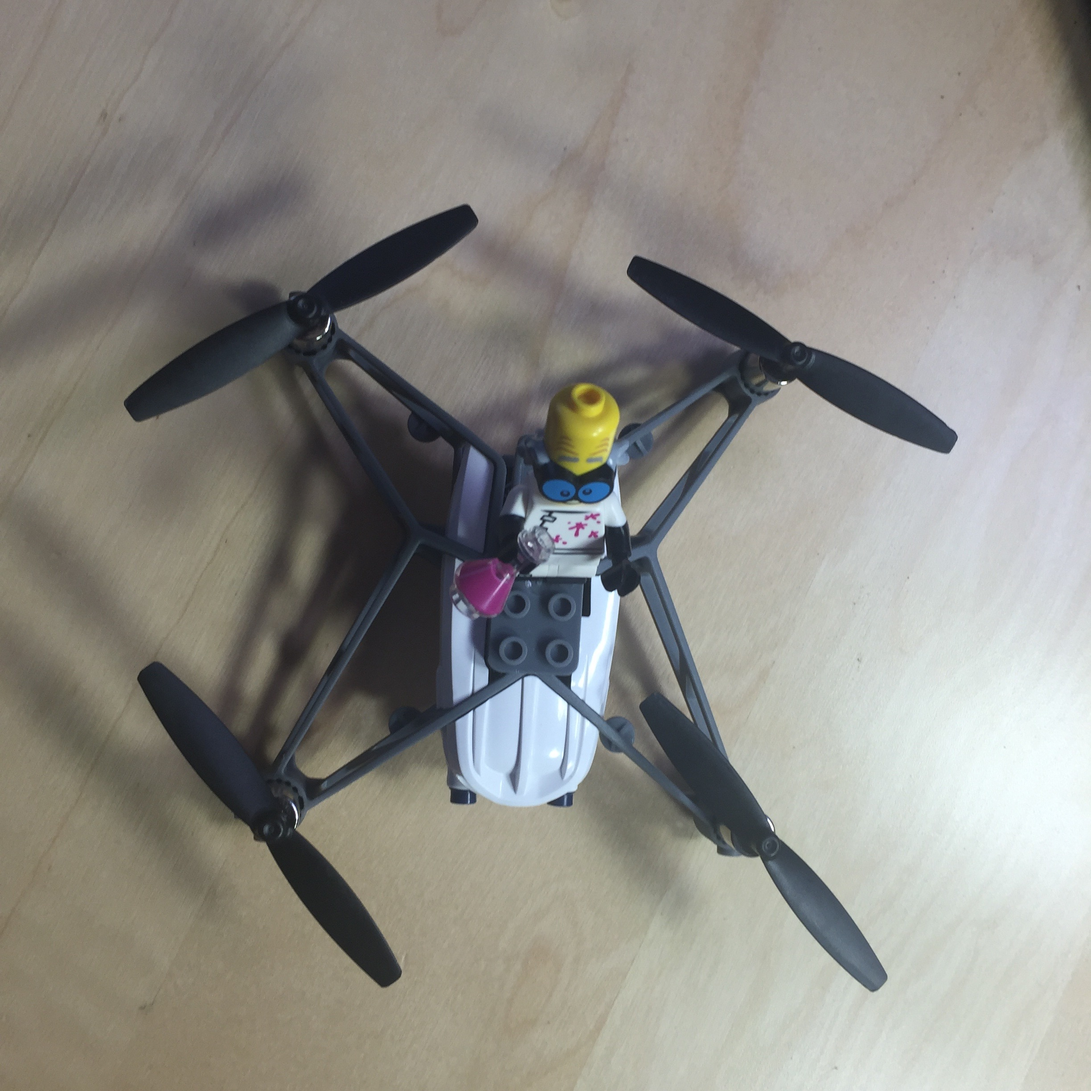
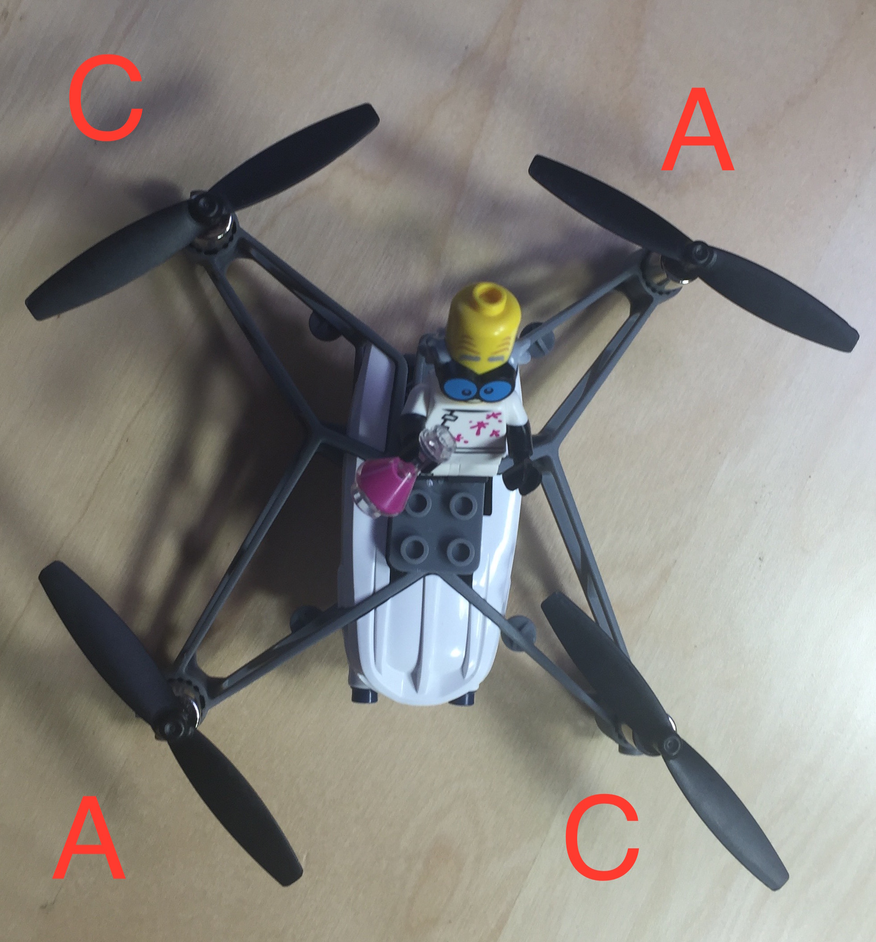
- Added anotations to the images. Created meaningful symlinks. Added rudimentary README.

diff --git a/images/README.md b/images/README.md
@@ -1,0 +1,11 @@
+# Drone Pictures
+
+The below pictures should help you putting the propellers back in the correct order.
+You will also see how to identify the tiny markings on the bottom of the props.
+
+ARDrone_proppeler_disposition.png -> Screen Shot 2015-10-23 at 10.44.44.png
+bottom.jpg -> IMG_8801.jpg    
+bottom_closeup.jpg -> IMG_8802.jpg    
+propeller_types.jpg -> IMG_9017.jpg    
+propeller_types_onDrone.jpg -> IMG_9018.jpg    
+top.jpg -> IMG_8804.jpg    
